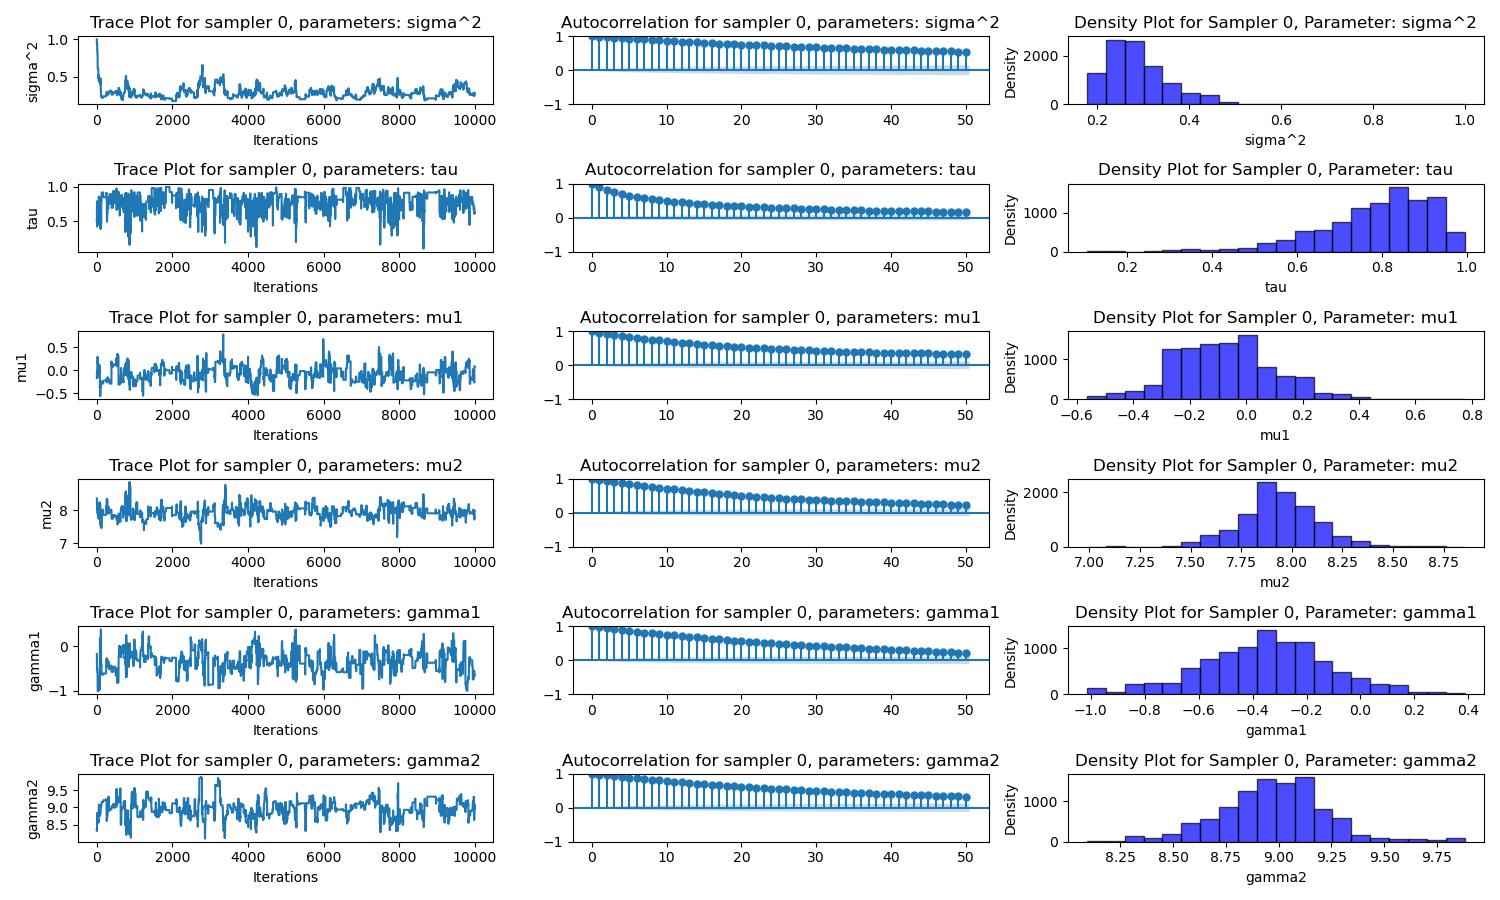
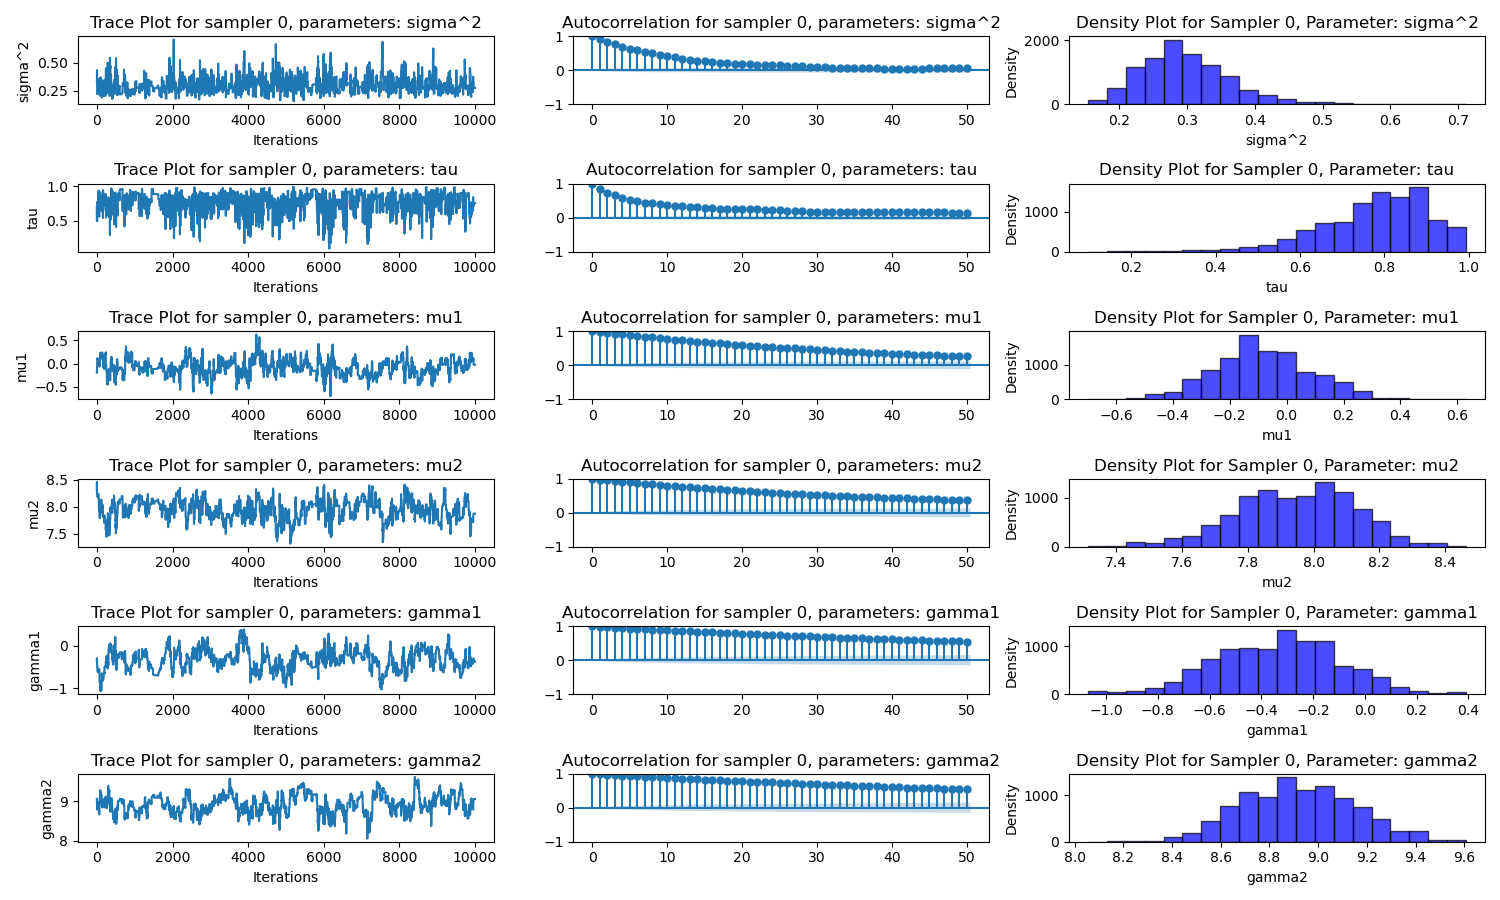
metropolis-hastings done

diff --git a/importance_sampling.py b/importance_sampling.py
@@ -1,57 +1,17 @@
+# Run importance sampling and save diagnostics
 import numpy as np
 import pandas as pd
+from pprint import pprint
+from utils import *
 import matplotlib.pyplot as plt
-from scipy.stats import norm, beta, invgamma
 from statsmodels.graphics.tsaplots import plot_acf
+import seaborn as sns
 import os
+from scipy.stats import norm, uniform, lognorm
 
-# PLOTTING DIAGNOSTICS
-def plot_diagnostics(sampler_num, samples, weights, parameter_indices, parameter_names):
-    num_params = len(parameter_indices)
-    fig, axes = plt.subplots(num_params, 3, figsize=(15, 1.5 * num_params))
 
-    for i, idx in enumerate(parameter_indices):
-        ax1 = axes[i][0]
-        ax1.plot(samples[:, idx])
-        ax1.set_title(f'Trace Plot for sampler {sampler_num}, parameters: {parameter_names[i]}')
-        ax1.set_xlabel('Iterations')
-        ax1.set_ylabel(parameter_names[i])
 
-        ax2 = axes[i][1]
-        plot_acf(weights * samples[:, idx], ax=ax2, lags=50)
-        ax2.set_title(f'Weighted Autocorrelation for sampler {sampler_num}, parameters: {parameter_names[i]}')
-
-        ax3 = axes[i][2]
-        ax3.hist(samples[:, idx], bins=20, weights=weights, color='blue', edgecolor='black', alpha=0.7)
-        ax3.set_title(f'Weighted Density Plot for Sampler {sampler_num}, Parameter: {parameter_names[i]}')
-        ax3.set_xlabel(parameter_names[i])
-        ax3.set_ylabel('Density')
-
-    fig.tight_layout()
-    if not os.path.exists('plots/importance_sampling'):
-        os.makedirs('plots/importance_sampling')
-    plt.savefig(f'plots/importance_sampling/diagnostics_sampler_{sampler_num}.png')
-
-# Proposal Distributions and PDFs
-def propose_log_normal(current, proposal_sd=0.1):
-    return np.exp(np.random.normal(np.log(current), proposal_sd))
-
-def pdf_log_normal(x, current, proposal_sd=0.1):
-    return norm.pdf(np.log(x), loc=np.log(current), scale=proposal_sd) / x
-
-def propose_beta(current, a=2, b=2):
-    return np.random.beta(a, b)
-
-def pdf_beta(x, current, a=2, b=2):
-    return beta.pdf(x, a, b)
-
-def propose_normal(current, proposal_sd=0.1):
-    return np.random.normal(current, proposal_sd)
-
-def pdf_normal(x, current, proposal_sd=0.1):
-    return norm.pdf(x, loc=current, scale=proposal_sd)
-
-# Prior Distributions
+# Define prior functions
 def prior_sigma2(sigma2):
     if 0.1 <= sigma2 <= 10:
         return -np.log(sigma2)
@@ -65,7 +25,7 @@ def prior_tau(tau):
 def prior_mu_gamma(value):
     return 0
 
-# Likelihood Function
+# Likelihood function
 def likelihood(theta, data):
     sigma2, tau, mu1, mu2, gamma1, gamma2 = theta
     log_likelihood = 0
@@ -79,57 +39,97 @@ def likelihood(theta, data):
         elif ti == 4:
             mu = tau * np.array([mu1, mu2]) + (1 - tau) * np.array([gamma1, gamma2])
         
-        log_likelihood += -np.sum((yi - mu) ** 2) / (2 * sigma2) - np.log(2 * np.pi * sigma2)
+        log_likelihood += -np.sum((yi - mu)**2) / (2 * sigma2) - np.log(2 * np.pi * sigma2)
     return log_likelihood
 
-# Importance Sampling
-def importance_sampling(n_samples, initial_theta, proposal_funcs, proposal_pdfs, prior_funcs, likelihood_func, data):
-    samples = np.zeros((n_samples, len(initial_theta)))
-    weights = np.zeros(n_samples)
-    current_theta = np.array(initial_theta)
+# Proposal distribution functions
+def propose_log_normal():
+    return lognorm(s=1).rvs()
 
+def propose_uniform(lower=0, upper=1):
+    return uniform(lower, upper-lower).rvs()
+
+def propose_normal(mean=0, sd=1):
+    return norm(mean, sd).rvs()
+
+
+# PLOTTING DIAGNOSTICS
+def plot_diagnostics(sampler_num, samples, parameter_indices, parameter_names):
+    """
+    Plots diagnostics for selected parameters in the Metropolis-Hastings samples.
+
+    Args:
+    samples (numpy.ndarray): The array of samples.
+    parameter_indices (list): List of indices for the parameters to be diagnosed.
+    parameter_names (list): List of names for the parameters.
+    """
+    num_params = len(parameter_indices)
+    fig, axes = plt.subplots(num_params, 3, figsize=(15, 1.5*num_params))
+
+    for i, idx in enumerate(parameter_indices):
+        # Trace
+        ax1 = axes[i][0]
+        ax1.plot(samples[:, idx])
+        ax1.set_title(f'Trace Plot for sampler {sampler_num}, parameters: {parameter_names[i]}')
+        ax1.set_xlabel('Iterations')
+        ax1.set_ylabel(parameter_names[i])
+
+        # Autocorrelation
+        ax2 = axes[i][1]
+        plot_acf(samples[:, idx], ax=ax2, lags=50)
+        ax2.set_title(f'Autocorrelation for sampler {sampler_num}, parameters: {parameter_names[i]}')
+        
+        # Density
+        ax3 = axes[i][2]
+        ax3.hist(samples[:, idx], bins=20, color='blue', edgecolor='black', alpha=0.7)
+        ax3.set_title(f'Density Plot for Sampler {sampler_num}, Parameter: {parameter_names[i]}')
+        ax3.set_xlabel(parameter_names[i])
+        ax3.set_ylabel('Density')
+
+    fig.tight_layout() 
+    if not os.path.exists("plots/metropolis_hastings"):
+        os.makedirs("plots/metropolis_hastings")
+    plt.savefig(f"plots/metropolis_hastings/diagnostics_sampler_{sampler_num}.png")
+
+# Importance sampling function
+def importance_sampling(n_samples, proposal_funcs, prior_funcs, likelihood_func, data):
+    # Set seed for reproducibility
+    np.random.seed(42)
+    samples = np.zeros((n_samples, len(proposal_funcs)))
+    weights = np.zeros(n_samples)
+    
     for i in range(n_samples):
         if i % 1000 == 0:
             print(f"Generated {i} samples")
-        proposed_theta = np.array([func(current) for func, current in zip(proposal_funcs, current_theta)])
-        samples[i, :] = proposed_theta
-        proposal_density = np.sum([pdf(theta, current) for pdf, theta, current in zip(proposal_pdfs, proposed_theta, current_theta)])
-        prior_prob = np.sum([prior(theta) for prior, theta in zip(prior_funcs, proposed_theta)])
-        likelihood = likelihood_func(proposed_theta, data)
-        weights[i] = np.exp(likelihood + prior_prob - proposal_density)
-        current_theta = proposed_theta
-
+        
+        sample = np.array([proposal_funcs[k]() for k in range(len(proposal_funcs))])
+        log_prior = np.sum([prior_funcs[k](sample[k]) for k in range(len(sample))])
+        log_likelihood = likelihood_func(sample, data)
+        log_proposal = np.sum([np.log(proposal_funcs[k](sample[k])) for k in range(len(sample))])
+        
+        log_weight = log_prior + log_likelihood - log_proposal
+        samples[j, :] = sample
+        weights[j] = np.exp(log_weight)
+    
     weights /= np.sum(weights)
-
+    
     return samples, weights
 
 # Load data
 raw_data = pd.read_csv("data.csv")
-# Placeholder for preprocess_data function
-data = [(raw_data.loc[i, ['gene1', 'gene2']].values, raw_data.loc[i, 'group']) for i in range(len(raw_data))]
+data = preprocess_data(raw_data)
 
-# Initial guesses
-initial_theta = [1, 0.5, np.mean(raw_data['gene1']), np.mean(raw_data['gene2']), np.mean(raw_data['gene1']), np.mean(raw_data['gene2'])]
+# Calculate the sample variance for the combined gene expression values
+combined_variance = raw_data[['gene1', 'gene2']].var().mean()
 
-# Example of running the sampler
-proposal_funcs = [
-    propose_log_normal,
-    propose_beta,
-    propose_normal,
-    propose_normal,
-    propose_normal,
-    propose_normal
-]
+# Initial parameter seeds
+initial_theta = [combined_variance, 0.5, 
+                 raw_data.loc[raw_data['group'] == 1, 'gene1'].mean(), 
+                 raw_data.loc[raw_data['group'] == 1, 'gene2'].mean(), 
+                 raw_data.loc[raw_data['group'] == 2, 'gene1'].mean(), 
+                 raw_data.loc[raw_data['group'] == 2, 'gene2'].mean()]
 
-proposal_pdfs = [
-    pdf_log_normal,
-    pdf_beta,
-    pdf_normal,
-    pdf_normal,
-    pdf_normal,
-    pdf_normal
-]
-
+# Prior functions
 prior_funcs = [
     prior_sigma2,
     prior_tau,
@@ -139,5 +139,25 @@ prior_funcs = [
     prior_mu_gamma
 ]
 
-samples, weights = importance_sampling(10000, initial_theta, proposal_funcs, proposal_pdfs, prior_funcs, likelihood, data)
-plot_diagnostics(0, samples, weights, list(range(0, len(initial_theta))), ['sigma^2', 'tau', 'mu1', 'mu2', 'gamma1', 'gamma2'])
+# Proposal functions combinations
+proposal_combinations = [
+    [propose_log_normal, lambda: propose_uniform(0, 1), lambda: propose_normal(initial_theta[2], 1), lambda: propose_normal(initial_theta[3], 1), lambda: propose_normal(initial_theta[4], 1), lambda: propose_normal(initial_theta[5], 1)],
+    [lambda: propose_normal(initial_theta[0], 1), lambda: propose_uniform(0, 1), lambda: propose_normal(initial_theta[2], 1), lambda: propose_normal(initial_theta[3], 1), lambda: propose_normal(initial_theta[4], 1), lambda: propose_normal(initial_theta[5], 1)],
+    [propose_log_normal, lambda: propose_uniform(0, 1), lambda: propose_normal(initial_theta[2], 2), lambda: propose_normal(initial_theta[3], 2), lambda: propose_normal(initial_theta[4], 2), lambda: propose_normal(initial_theta[5], 2)],
+    [lambda: propose_normal(initial_theta[0], 1), lambda: propose_uniform(0, 1), lambda: propose_normal(initial_theta[2], 2), lambda: propose_normal(initial_theta[3], 2), lambda: propose_normal(initial_theta[4], 2), lambda: propose_normal(initial_theta[5], 2)],
+    [propose_log_normal, lambda: propose_uniform(0, 1), lambda: propose_uniform(initial_theta[2]-0.5*initial_theta[2], initial_theta[2]+0.5*initial_theta[2]), lambda: propose_uniform(initial_theta[3]-0.5*initial_theta[3], initial_theta[3]+0.5*initial_theta[3]), lambda: propose_uniform(initial_theta[4]-0.5*initial_theta[4], initial_theta[4]+0.5*initial_theta[4]), lambda: propose_uniform(initial_theta[5]-0.5*initial_theta[5], initial_theta[5]+0.5*initial_theta[5])],
+    [lambda: propose_normal(initial_theta[0], 1), lambda: propose_uniform(0, 1), lambda: propose_uniform(initial_theta[2]-0.5*initial_theta[2], initial_theta[2]+0.5*initial_theta[2]), lambda: propose_uniform(initial_theta[3]-0.5*initial_theta[3], initial_theta[3]+0.5*initial_theta[3]), lambda: propose_uniform(initial_theta[4]-0.5*initial_theta[4], initial_theta[4]+0.5*initial_theta[4]), lambda: propose_uniform(initial_theta[5]-0.5*initial_theta[5], initial_theta[5]+0.5*initial_theta[5])]
+]
+
+
+results = []
+for num, proposal_funcs in enumerate(proposal_combinations):
+    print(f"Running sampler {num}")
+    results.append(importance_sampling(10000, proposal_funcs, prior_funcs, likelihood, data))
+
+for i, (samples, weights) in enumerate(results):
+    np.set_printoptions(threshold=np.inf, linewidth=np.inf, suppress=True)
+    for j in range(-10, 0):
+        print(f"Sampler {i}, Sample {j}: {samples[j]} with weight {weights[j]}")
+    # Save or plot diagnostics as needed
+    plot_diagnostics(i, samples, [0, 1, 2, 3, 4, 5], ['sigma2', 'tau', 'mu1', 'mu2', 'gamma1', 'gamma2'])

diff --git a/metropolis_hastings.py b/metropolis_hastings.py
@@ -48,7 +48,6 @@ def plot_diagnostics(sampler_num, samples, parameter_indices, parameter_names):
 
 
 # PROPOSAL DISTRIBUTIONS
-
 def propose_log_normal(current, proposal_sd=0.1):
     return np.exp(np.random.normal(np.log(current), proposal_sd))
 
@@ -61,10 +60,6 @@ def propose_normal(current, proposal_sd=0.1):
     return np.random.normal(current, proposal_sd)
 
 
-def propose_cauchy(current, scale=0.1):
-    return current + np.random.standard_cauchy() * scale
-
-
 def propose_beta(current, a=2, b=2):
     return np.random.beta(a, b) * (1 - 0) + 0
 
@@ -72,12 +67,19 @@ def propose_beta(current, a=2, b=2):
 def propose_uniform(current, lower=0, upper=1):
     return np.random.uniform(lower, upper)
 
+def propose_uniform_mu_gamma(current):
+    lower = current - current * 0.5
+    upper = current + current * 0.5
+    if lower > upper:
+        lower, upper = upper, lower
+    return np.random.uniform(lower, upper)
+
 
 def propose_inverse_gamma(current, alpha=2, beta=2):
     return 1 / np.random.gamma(alpha, scale=1/beta)
 
 
-def propose_t_distribution(current, df=3, scale=0.1):
+def propose_t_distribution(current, df=2, scale=0.1):
     return current + np.random.standard_t(df) * scale
 
 
@@ -143,6 +145,7 @@ def likelihood(theta, data):
 
 # SAMPLER
 def metropolis_hastings(n_samples, initial_theta, proposal_funcs, prior_funcs, likelihood_func, data):
+    np.random.seed(42) # set seed for reproducibility
     samples = np.zeros((n_samples, len(initial_theta)))
     samples[0, :] = initial_theta
     current_theta = initial_theta
@@ -171,8 +174,11 @@ def metropolis_hastings(n_samples, initial_theta, proposal_funcs, prior_funcs, l
 raw_data = pd.read_csv("data.csv")
 data = preprocess_data(raw_data)
 
+
+# Calculate the sample variance for the combined gene expression values
+combined_variance = raw_data[['gene1', 'gene2']].var().mean()
 # Initial parameter seeds
-initial_theta = [1, 0.5, np.mean(raw_data['gene1']), np.mean(raw_data['gene2']), np.mean(raw_data['gene1']), np.mean(raw_data['gene2'])]
+initial_theta = [combined_variance, 0.5, raw_data.loc[raw_data['group'] == 1, 'gene1'].mean(), raw_data.loc[raw_data['group'] == 1, 'gene2'].mean(), raw_data.loc[raw_data['group'] == 2, 'gene1'].mean(), raw_data.loc[raw_data['group'] == 2, 'gene2'].mean()]
 
 # Prior functions
 prior_funcs = [
@@ -186,14 +192,19 @@ prior_funcs = [
 
 # Proposal functions
 proposal_combinations = [
-    [propose_log_normal, propose_beta, propose_cauchy, propose_cauchy, propose_cauchy, propose_cauchy],
-    [propose_truncated_normal, propose_logistic_normal, propose_reflective_normal, propose_reflective_normal, propose_reflective_normal, propose_reflective_normal],
-    [propose_inverse_gamma, propose_uniform, propose_t_distribution, propose_t_distribution, propose_t_distribution, propose_t_distribution],
-    [propose_inverse_gamma, propose_logistic_normal, propose_t_distribution, propose_t_distribution, propose_t_distribution, propose_t_distribution],
-    [propose_log_normal, propose_beta, propose_reflective_normal, propose_reflective_normal, propose_reflective_normal, propose_reflective_normal],
-    [propose_uniform, propose_uniform, propose_uniform, propose_uniform, propose_uniform, propose_uniform],
-    [propose_log_normal, propose_beta, propose_normal, propose_normal, propose_beta, propose_beta],
-    [propose_inverse_gamma, propose_beta, propose_cauchy, propose_cauchy, propose_exponential, propose_exponential]
+    [propose_truncated_normal, propose_beta, propose_normal, propose_normal, propose_normal, propose_normal],
+    [propose_normal, propose_beta, propose_normal, propose_normal, propose_normal, propose_normal],
+    [propose_truncated_normal, propose_beta, propose_t_distribution, propose_t_distribution, propose_t_distribution, propose_t_distribution],
+    [propose_normal, propose_beta, propose_t_distribution, propose_t_distribution, propose_t_distribution, propose_t_distribution],
+    [propose_truncated_normal, propose_beta, propose_uniform_mu_gamma, propose_uniform_mu_gamma, propose_uniform_mu_gamma, propose_uniform_mu_gamma],
+    [propose_normal, propose_beta, propose_uniform_mu_gamma, propose_uniform_mu_gamma, propose_uniform_mu_gamma, propose_uniform_mu_gamma],
+    [propose_truncated_normal, propose_uniform, propose_normal, propose_normal, propose_normal, propose_normal],
+    [propose_normal, propose_uniform, propose_normal, propose_normal, propose_normal, propose_normal],
+    [propose_truncated_normal, propose_uniform, propose_t_distribution, propose_t_distribution, propose_t_distribution, propose_t_distribution],
+    [propose_normal, propose_uniform, propose_t_distribution, propose_t_distribution, propose_t_distribution, propose_t_distribution],
+    [propose_truncated_normal, propose_uniform, propose_uniform_mu_gamma, propose_uniform_mu_gamma, propose_uniform_mu_gamma, propose_uniform_mu_gamma],
+    [propose_normal, propose_uniform, propose_uniform_mu_gamma, propose_uniform_mu_gamma, propose_uniform_mu_gamma, propose_uniform_mu_gamma],
+    
 ]
 
 
